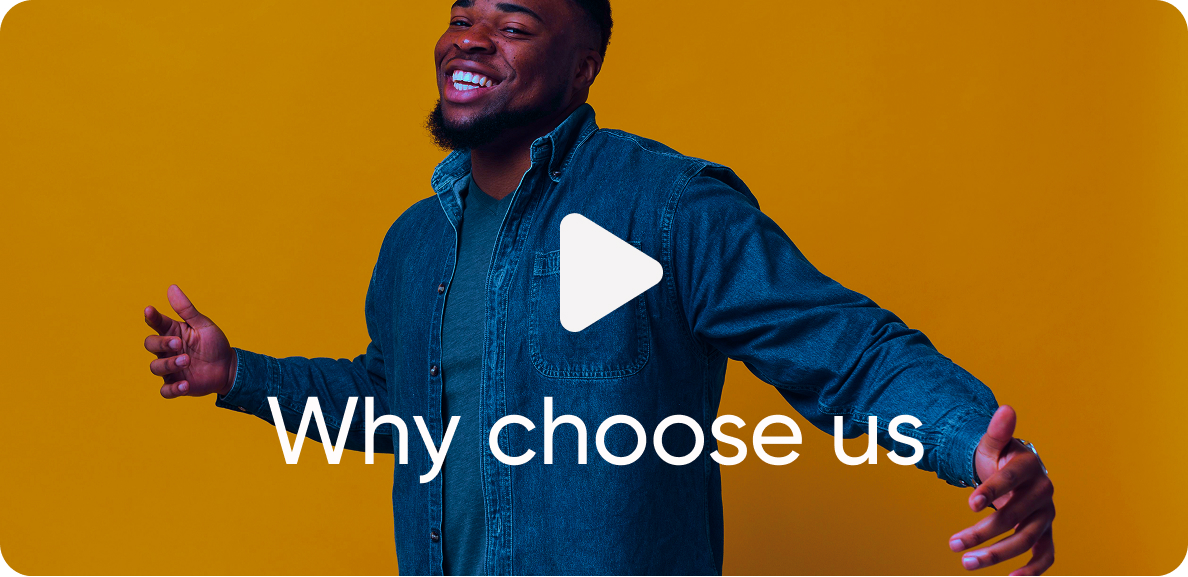
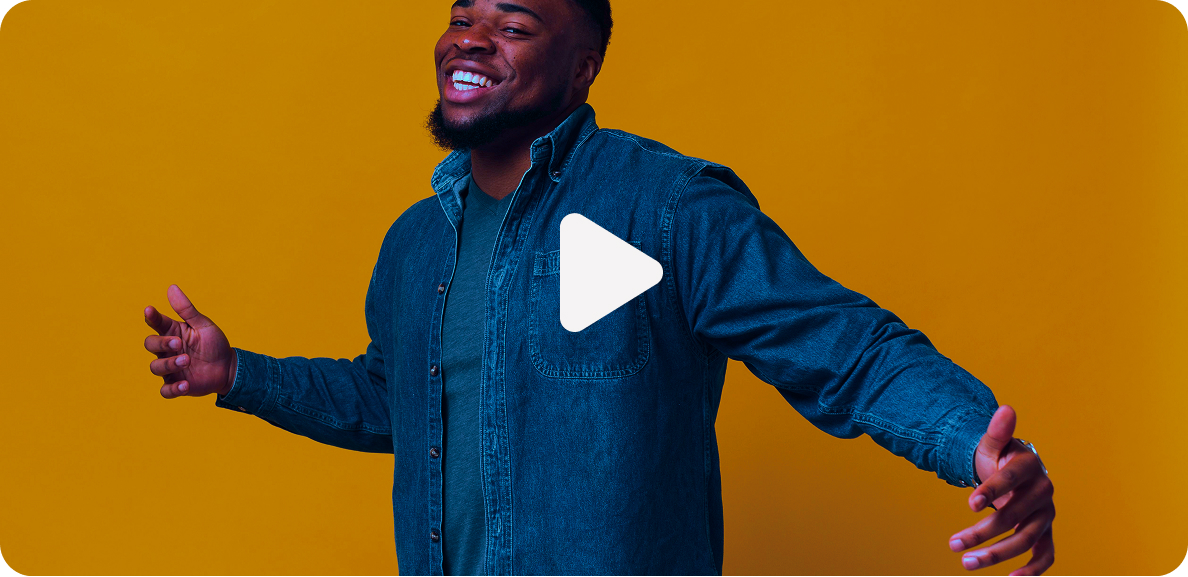
styled the play-pause button for the why choose us video

Changed region(s): [[0.218, 0.6863, 0.7786, 0.8423]]

diff --git a/styles/styles.css b/styles/styles.css
@@ -190,6 +190,7 @@ header .chat:hover {
 .know-us-section-title {
     width: 100%;
     padding: 2rem;
+    margin-top: 50px;
     text-align: center;
     background-color: #FFFFFF;
 }
@@ -206,7 +207,7 @@ header .chat:hover {
     display: flex;
     padding: 20px;
     overflow: hidden;
-    min-height: 40vh;
+    min-height: 60vh;
     text-align: center;
     position: relative;
     align-items: center;
@@ -262,13 +263,11 @@ header .chat:hover {
     background-color: var(--hover-color);
 }
 
-
-
 /* Services Grid Styles */
 .services-container {
-    padding: 20px;
-    margin: 0 auto;
     width: 100%;
+    margin: 0 auto;
+    padding: 0 20px 20px 20px;
 }
 
 .services-grid {
@@ -282,7 +281,7 @@ header .chat:hover {
 .service-card {
     display: flex;
     cursor: pointer;
-    padding: 80px 20px;
+    padding: 80px 5px;
     text-align: center;
     align-items: center;
     border-radius: 15px;
@@ -297,36 +296,68 @@ header .chat:hover {
 }
 
 .service-title {
-    font-family: var(--light);
-    font-size: 2.4rem;
+    font-size: 2.3rem;
     color: var(--text-color);
+    font-family: var(--light);
 }
 
 /* why choose us */
-.why-choose-us {
+.video-wrapper {
     width: 80%;
-    height: 100vh;
-    display: flex;
     margin: 0 auto;
-    object-fit: contain;
-    align-items: center;
-    box-sizing: border-box;
-    justify-content: center;
+    position: relative;
 }
 
-.why-choose-us img {
+/* Pseudo overlay */
+.video-wrapper::after {
+    content: '';
+    top: 0;
+    left: 0;
+    right: 0;
+    bottom: 0;
+    z-index: 1;
+    position: absolute;
+    pointer-events: none;
+    background: rgba(0, 0, 0, 0.4);
+}
+
+.video-wrapper video {
     width: 100%;
-    height: auto;
     display: block;
+    border-radius: 33px;
+}
+
+/* Play/Pause Button */
+.play-pause-btn {
+    top: 50%;
+    left: 50%;
+    z-index: 2;
+    width: 150px;
+    height: 150px;
+    padding: 15px;
+    cursor: pointer;
+    font-size: 50px;
+    border-radius: 50%;
+    position: absolute;
+    color: var(--white-color);
+    transform: translate(-50%, -50%);
+    background-color: rgba(0, 0, 0, 0.6);
+}
+
+.play-pause-btn i {
+    top: 15%;
+    left: 32%;
+    font-size: 6rem;
+    position: absolute;
 }
 
 /* Partners Carousel Styles */
 .partners-carousel-container {
-    position: relative;
     width: 100%;
     margin: 0 auto;
     padding: 40px 0;
     overflow: hidden;
+    position: relative;
 }
 
 .partners-carousel {
@@ -358,11 +389,11 @@ header .chat:hover {
 .carousel-slide {
     min-width: calc(100% / 4);
     /* Show 4 slides at once on desktop */
-    padding: 0 20px;
     display: flex;
+    flex-shrink: 0;
+    padding: 0 20px;
     align-items: center;
     justify-content: center;
-    flex-shrink: 0;
 }
 
 .carousel-slide img {
@@ -372,9 +403,9 @@ header .chat:hover {
 }
 
 .portfolio-container {
-    max-width: 80%;
-    margin: 0 auto;
     padding: 20px;
+    margin: 0 auto;
+    max-width: 80%;
 }
 
 .portfolio-grid {
@@ -414,8 +445,8 @@ header .chat:hover {
 .see-more-btn {
     border: none;
     display: none;
-    font-size: 1rem;
     cursor: pointer;
+    font-size: 1rem;
     padding: 12px 24px;
     border-radius: 5px;
     transition: all 0.3s ease;
@@ -444,20 +475,20 @@ header .chat:hover {
 }
 
 .overlay-content {
+    max-width: 100%;
+    max-height: 100%;
     position: relative;
-    max-width: 90%;
-    max-height: 90%;
 }
 
 .overlay-content img {
     max-width: 100%;
-    max-height: 90vh;
+    max-height: 100%;
     border-radius: 5px;
 }
 
 .close-btn {
-    right: 0;
-    top: -40px;
+    right: 10px;
+    top: 10px;
     width: 30px;
     height: 30px;
     color: #333;
@@ -536,10 +567,10 @@ header .chat:hover {
 
 .footer-input {
     flex: 1;
-    color: white;
     font-size: 16px;
     padding: 15px 20px;
     border-radius: 5px;
+    color: var(--white-color);
     font-family: var(--regular);
     background-color: transparent;
     border: 1px solid rgba(255, 255, 255, 0.3);

diff --git a/index.html b/index.html
@@ -67,30 +67,34 @@
             <div class="services-container">
                 <div class="services-grid">
                     <div class="service-card">
-                        <h2 class="service-title">Web and Mobile Development</h2>
+                        <h2 class="service-title">Web & Mobile Development</h2>
                     </div>
                     <div class="service-card">
-                        <h2 class="service-title">Digital Marketing</h2>
+                        <h2 class="service-title">Digital <br>Marketing</h2>
                     </div>
                     <div class="service-card">
                         <h2 class="service-title">Social Media Management</h2>
                     </div>
                     <div class="service-card">
-                        <h2 class="service-title">UI/UX Product Design</h2>
+                        <h2 class="service-title">UI/UX <br>Product Design</h2>
                     </div>
                     <div class="service-card">
-                        <h2 class="service-title">Web and Mobile Development</h2>
+                        <h2 class="service-title">Data <br>Analysis</h2>
                     </div>
                     <div class="service-card">
-                        <h2 class="service-title">Video Production</h2>
+                        <h2 class="service-title">Video <br>Production</h2>
                     </div>
                 </div>
             </div>
         </section>
 
         <!-- Why choose us -->
-        <section class="why-choose-us">
-            <img src="./assets/images/why-choose-us.jpg" alt="">
+        <section class="video-wrapper">
+            <video id="video" src="./assets/videos/why-choose-us.mp4"
+                poster="./assets/images/why-choose-us.jpg"></video>
+            <div id="playPauseBtn" class="play-pause-btn">
+                <i class="fas fa-play"></i>
+            </div>
         </section>
 
         <!-- Simplified partner carousel without navigation controls -->

diff --git a/assets/js/script.js b/assets/js/script.js
@@ -1,24 +1,37 @@
-      function openOverlay(imageSrc) {
-            const overlay = document.getElementById('imageOverlay');
-            const image = document.getElementById('overlayImage');
+function openOverlay(imageSrc) {
+    const overlay = document.getElementById('imageOverlay');
+    const image = document.getElementById('overlayImage');
 
-            image.src = imageSrc;
-            overlay.style.display = 'flex';
-            document.body.style.overflow = 'hidden'; // Prevent scrolling
-        } 8
+    image.src = imageSrc;
+    overlay.style.display = 'flex';
+    document.body.style.overflow = 'hidden'; // Prevent scrolling
+} 8
 
-        function closeOverlay() {
-            const overlay = document.getElementById('imageOverlay');
-            overlay.style.display = 'none';
-            document.body.style.overflow = 'auto'; // Enable scrolling again
-        }
+function closeOverlay() {
+    const overlay = document.getElementById('imageOverlay');
+    overlay.style.display = 'none';
+    document.body.style.overflow = 'auto'; // Enable scrolling again
+}
 
-        // Close overlay when clicking outside the image
-        document.getElementById('imageOverlay').addEventListener('click', function (e) {
-            if (e.target === this) {
-                closeOverlay();
-            }
-        });
+// Close overlay when clicking outside the image
+document.getElementById('imageOverlay').addEventListener('click', function (e) {
+    if (e.target === this) {
+        closeOverlay();
+    }
+});
 
+const video = document.getElementById('video');
+const btn = document.getElementById('playPauseBtn');
+const icon = btn.querySelector('i');
 
-        
+btn.addEventListener('click', () => {
+    if (video.paused) {
+        video.play();
+        icon.classList.remove('fa-play');
+        icon.classList.add('fa-pause');
+    } else {
+        video.pause();
+        icon.classList.remove('fa-pause');
+        icon.classList.add('fa-play');
+    }
+});
